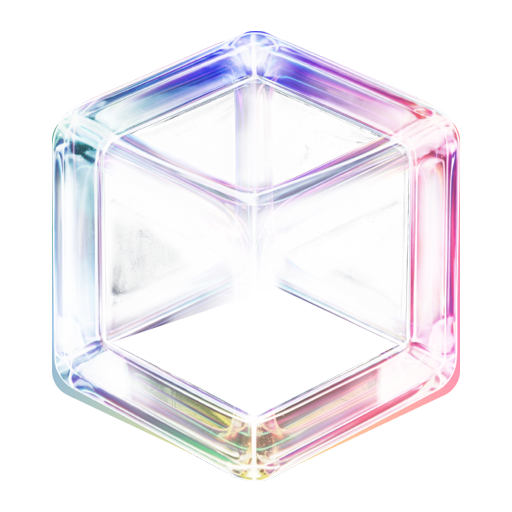
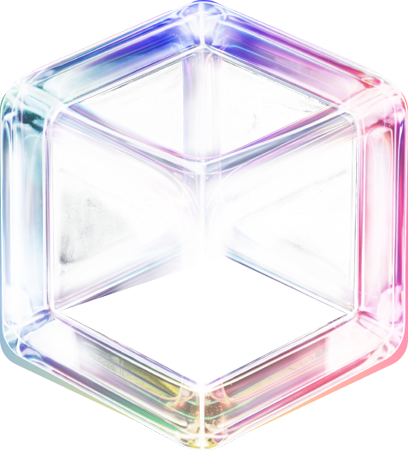
update : animation speed, repeat, and css, update size of box.png

diff --git a/box.css b/box.css
@@ -73,19 +73,19 @@ body {
   pointer-events: none;
 }
 
-/* 第一層：七彩背景（修正為 h.png，橫向移動） */
+/* 第一層：七彩背景（修正為 repeat-x 橫向重複，並將速度放慢到約 30% -> 33秒） */
 .layer-aurora {
-  background: url('img/h.png') center center / 200% 100% no-repeat;
+  background: url('img/h.png') center center / 200% 100% repeat-x;
   will-change: transform;
-  animation: auroraMove 10s infinite linear;
+  animation: auroraMove 33s infinite linear;
 }
 
-/* 第二層：金粉光點（修正為 v.png，縱向移動） */
+/* 第二層：金粉光點（修正為 repeat-y 縱向重複，並將速度放慢到約 30% -> 20秒） */
 .layer-particles {
-  background: url('img/v.png') center center / 100% 200% no-repeat;
+  background: url('img/v.png') center center / 100% 200% repeat-y;
   mix-blend-mode: screen; /* 濾掉金粉的黑底 */
   will-change: transform;
-  animation: particleFloat 6s infinite linear;
+  animation: particleFloat 20s infinite linear;
 }
 
 /* 第三層（最頂）：玻璃主體結構（修正為 box.png） */
@@ -94,13 +94,12 @@ body {
 }
 
 
-/* ==================== Keyframes 動態效果 ==================== */
+/* ==================== 🎬 動畫動態效果 ==================== */
 @keyframes boxIdleFloating {
   0% { transform: scale3d(0.9, 0.9, 1) translate3d(0, -2px, 0); }
   100% { transform: scale3d(0.9, 0.9, 1) translate3d(0, 2px, 0); }
 }
 
-/* 點擊瞬間快速縮小 -> 放大到 1.2 倍 */
 @keyframes boxPopJump {
   0% { transform: scale3d(0.9, 0.9, 1); }
   25% { transform: scale3d(0.6, 0.6, 1); }   
@@ -108,13 +107,13 @@ body {
   100% { transform: scale3d(1.2, 1.2, 1); }   
 }
 
-/* 橫向移動背景圖 */
+/* 橫向移動背景圖：為了完美無縫重複，位置從 0% 移動到 200% */
 @keyframes auroraMove {
   0% { background-position: 0% center; }
   100% { background-position: 200% center; }
 }
 
-/* 縱向移動金粉圖 */
+/* 縱向移動金粉圖：為了完美無縫重複，位置從 0% 移動到 200% */
 @keyframes particleFloat {
   0% { background-position: center 0%; }
   100% { background-position: center 200%; }

diff --git a/box.js b/box.js
@@ -2,7 +2,7 @@ document.addEventListener('DOMContentLoaded', () => {
   const boxWrapper = document.getElementById('boxWrapper');
   const totalBoxes = 3;
 
-  // 動態重複生成三個組件結構（精簡為純三層）
+
   for (let i = 1; i <= totalBoxes; i++) {
     const boxItem = document.createElement('div');
     boxItem.className = 'crystal-box';
@@ -17,7 +17,7 @@ document.addEventListener('DOMContentLoaded', () => {
     boxWrapper.appendChild(boxItem);
   }
 
-  // 點擊邏輯控制
+
   boxWrapper.addEventListener('click', (event) => {
     const clickedBox = event.target.closest('.crystal-box');
     
@@ -29,14 +29,14 @@ document.addEventListener('DOMContentLoaded', () => {
       box.classList.remove('active', 'inactive');
       
       if (box === clickedBox) {
-        box.classList.add('active'); // 觸發快速縮小並放大到 1.2 倍
+        box.classList.add('active');
       } else {
-        box.classList.add('inactive'); // 剩下的縮小
+        box.classList.add('inactive'); 
       }
     });
 
     setTimeout(() => {
-      console.log(`第 ${clickedBox.dataset.id} 個六角形箱子成功開啟！`);
+      console.log(`box ${clickedBox.dataset.id} activated`);
     }, 500);
   });
 });